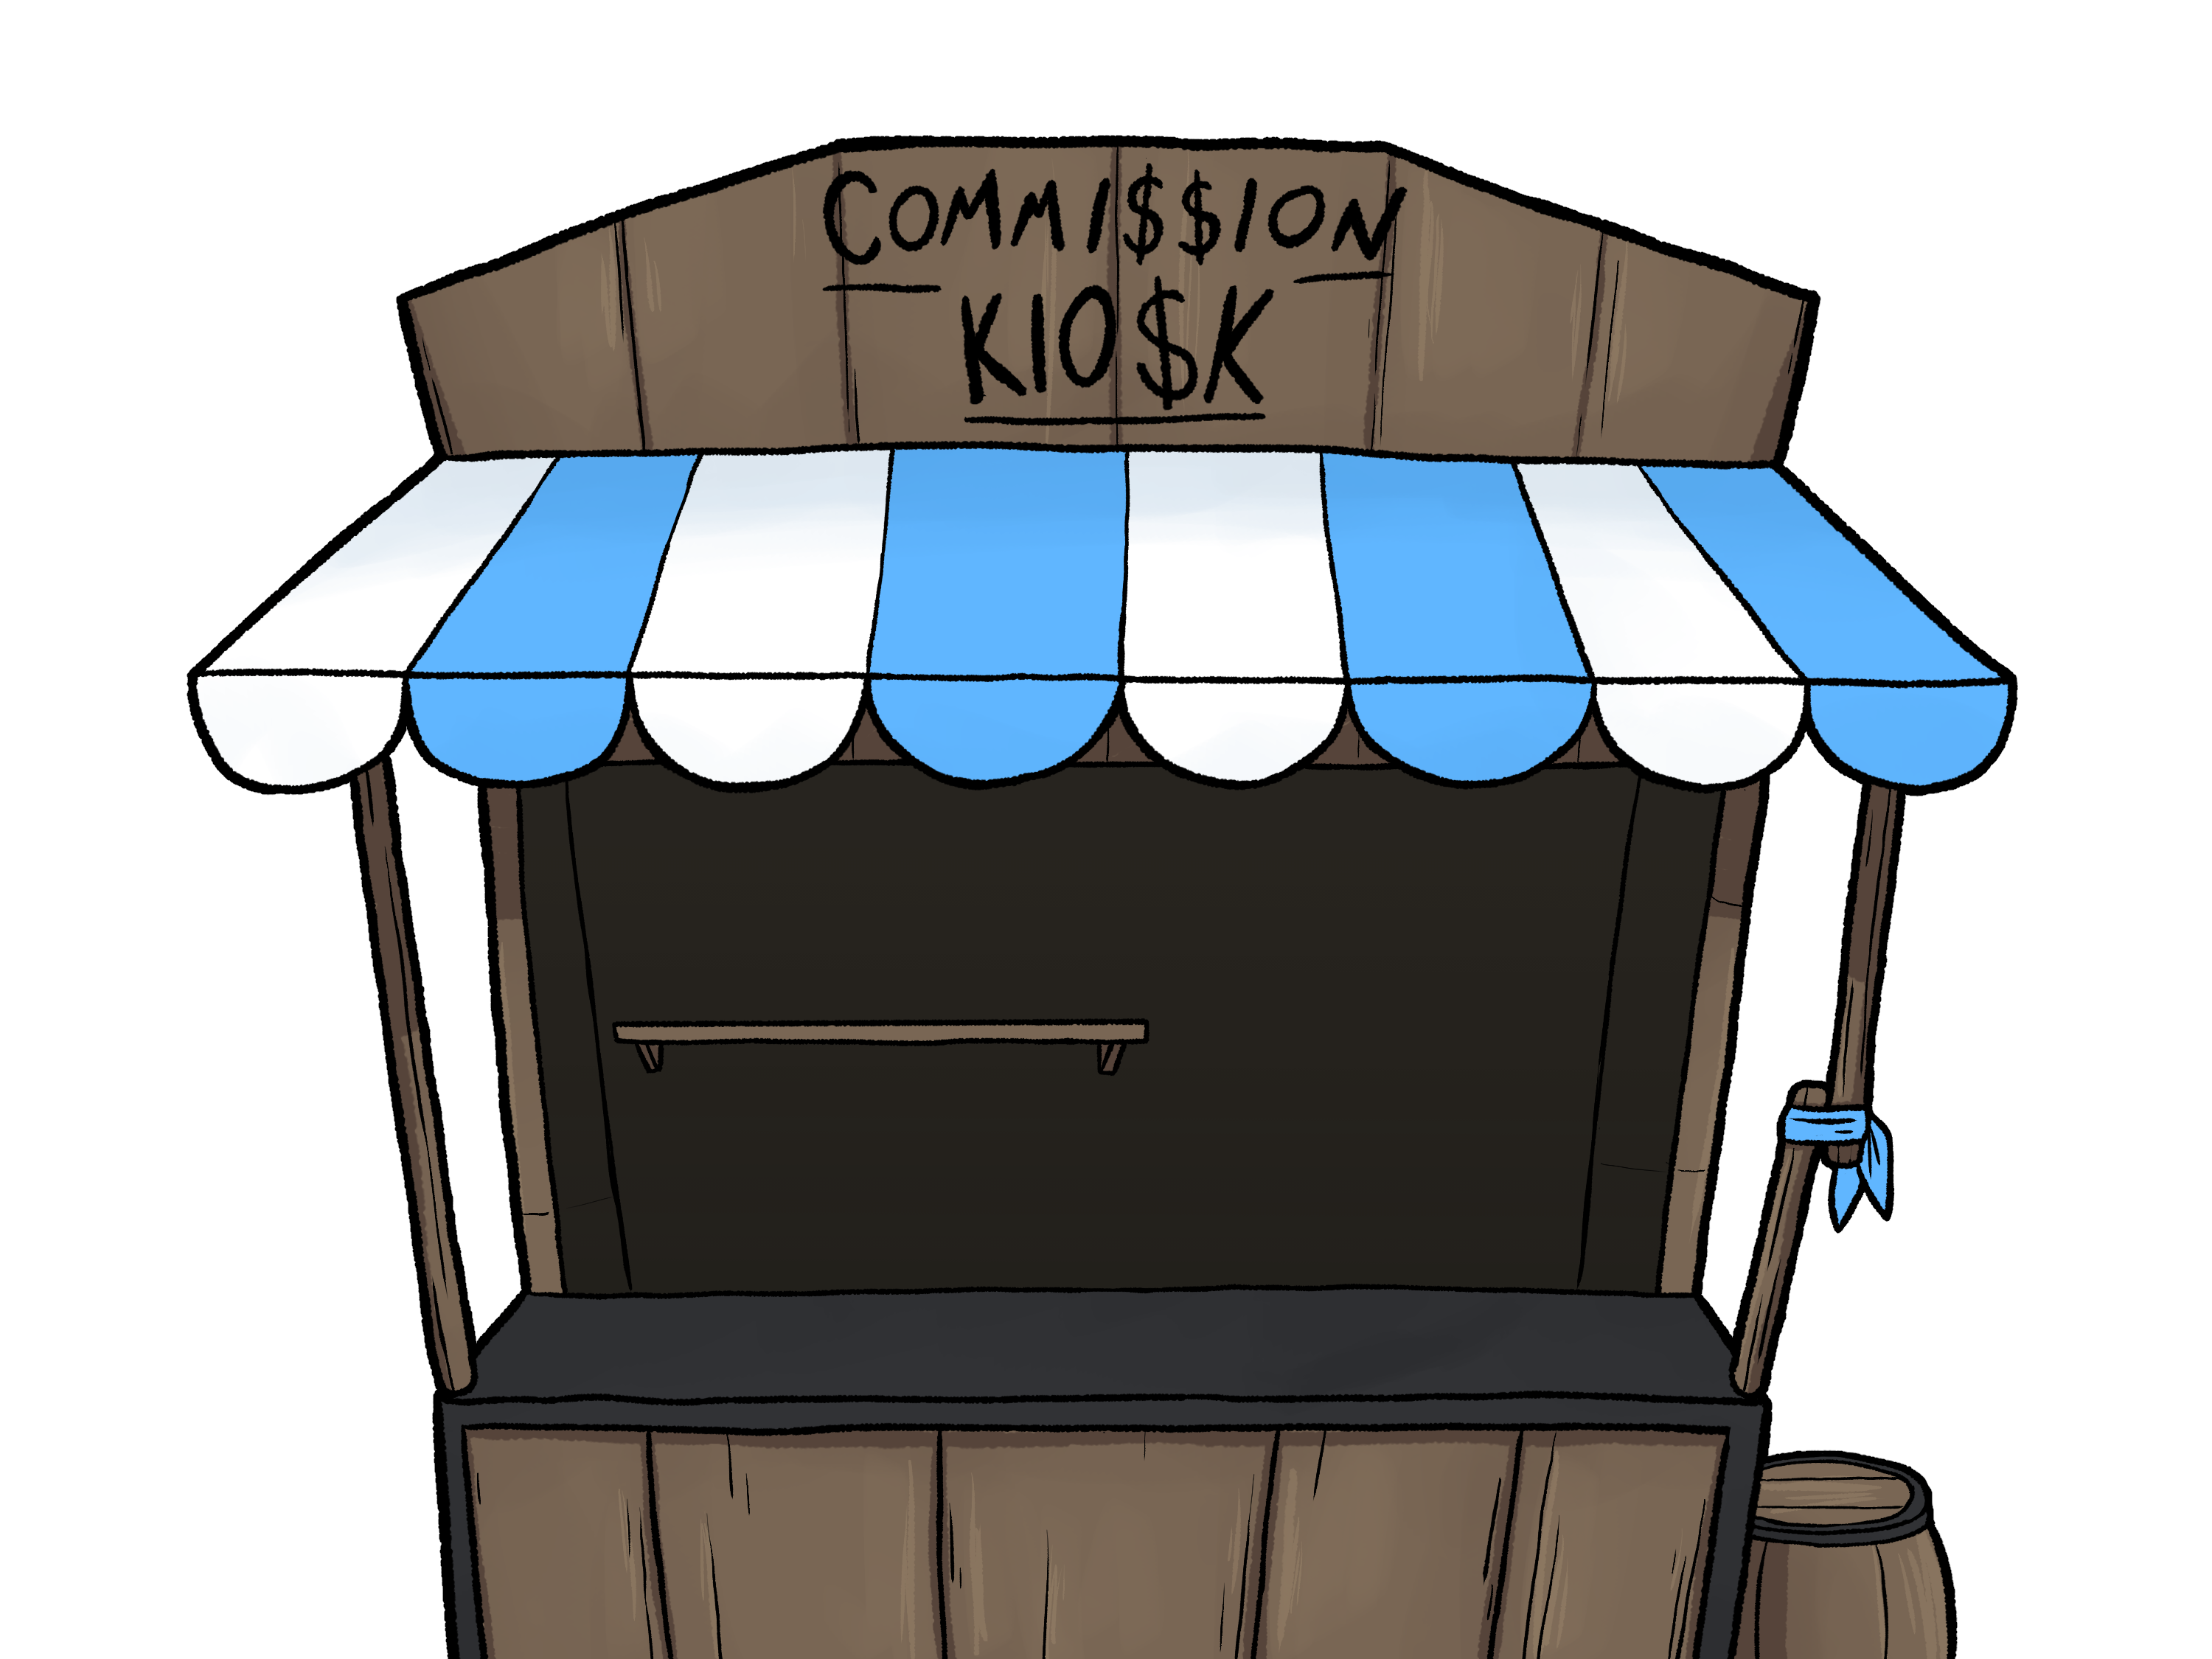
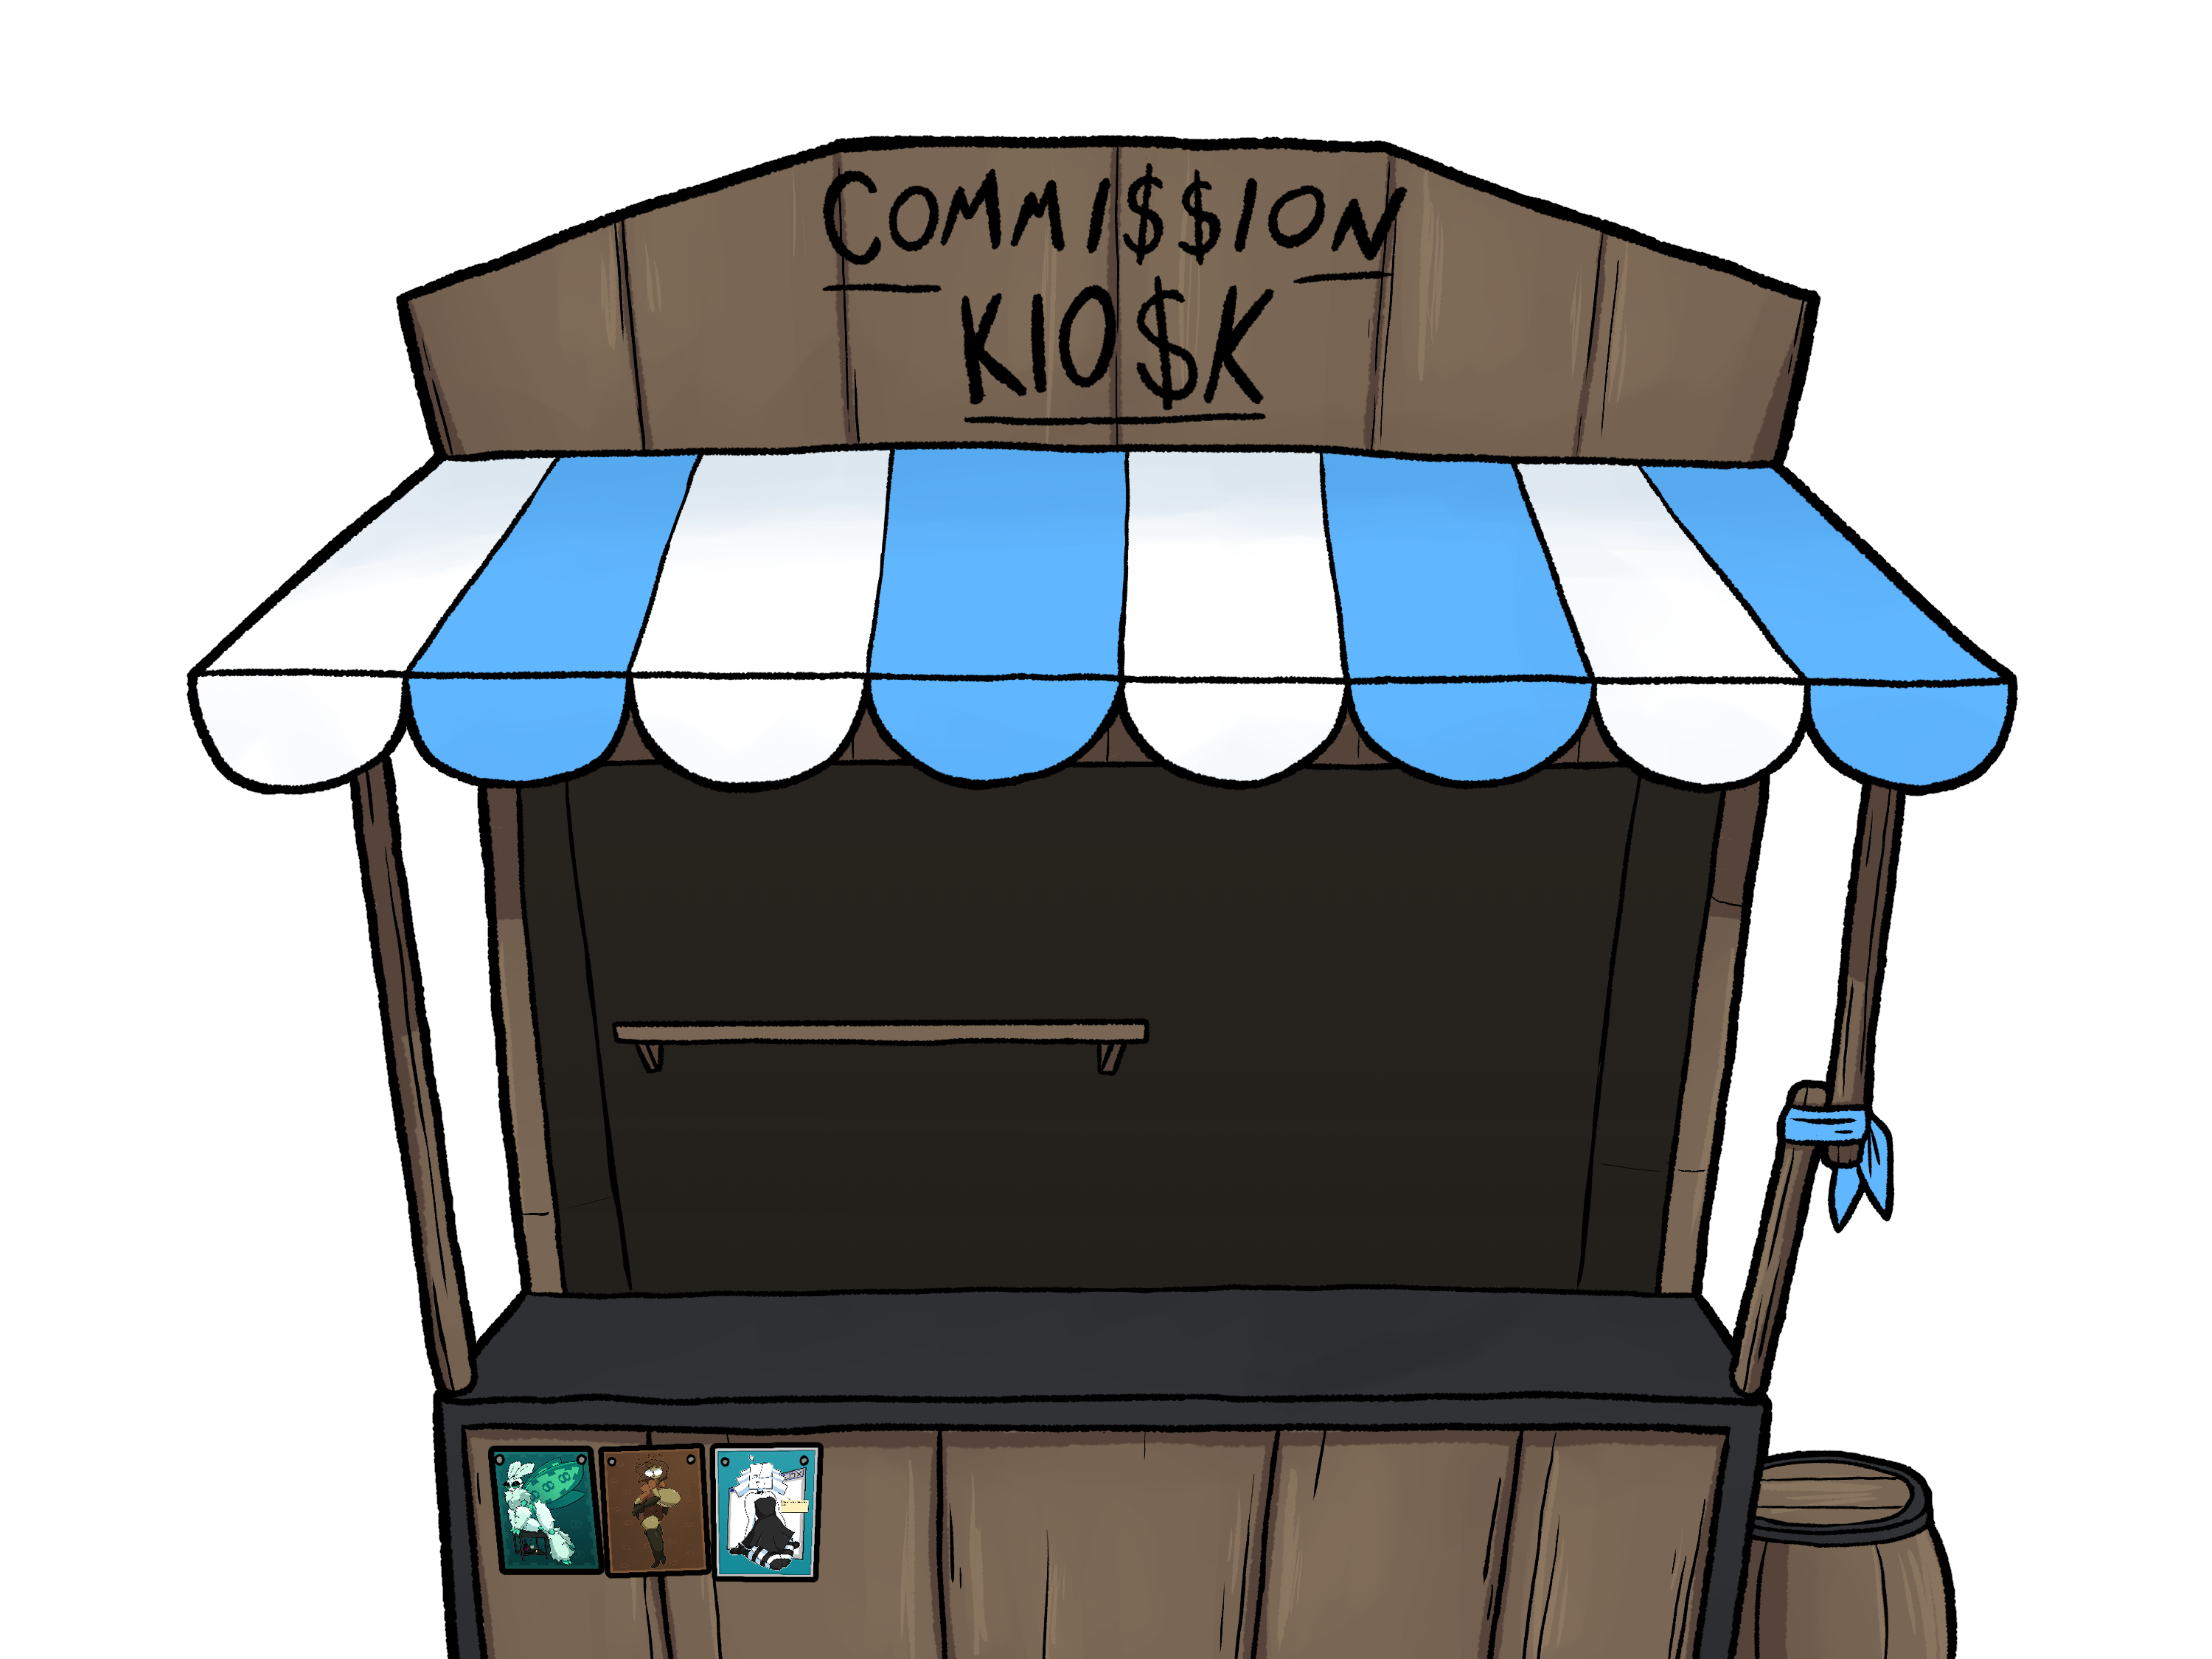
commission info update

Changed region(s): [[0.217, 0.8711, 0.372, 0.9644]]

diff --git a/manicfrenzy/style.css b/manicfrenzy/style.css
@@ -1140,7 +1140,7 @@ body {
 	left: 50%;
 	transform: translateX(-50%);
 	width: min(125vh, 100vw);
-	aspect-ratio: 4 / 3; /* or your kiosk art ratio */
+	aspect-ratio: 4 / 3;
 }
 
 .kiosk {
@@ -1194,6 +1194,11 @@ body {
 		drop-shadow(0 -2px 0 white);
 }
 
+.kiosk-object-closed {
+	position: absolute;
+	z-index: 3;
+}
+
 .kiosk-speech {
 	margin: 0;
 	padding: 0;
@@ -1202,11 +1207,90 @@ body {
 	color: black;
 }
 
-.radio-container {
-	position: relative;
-	width: 350px;
-	height: 263px;
+.kiosk-title {
+	width: 90%;
+	margin: 0 auto;
+	display: flex;
 }
+
+.reviewbox-f {
+	position: absolute;
+	width: 100%;
+	bottom: 3px;
+}
+
+.reviewbox-b {
+	position: absolute;
+	width: 100%;
+	bottom: 0px;
+}
+
+.reviewbox-container-f {
+    position: fixed;
+
+    bottom: -40%;
+    left: 50%;
+    transform: translateX(-50%);
+
+    width: 60%;
+
+    pointer-events: none;
+	z-index: 5;
+}
+
+.reviewbox-container-b {
+    position: fixed;
+
+    bottom: -40%;
+    left: 50%;
+    transform: translateX(-50%);
+
+    width: 60%;
+
+    pointer-events: none;
+	z-index: 1;
+}
+
+.review-scroll {
+    position: fixed;
+
+    top: 0;
+    left: 50%;
+    transform: translateX(-50%);
+
+    width: 30%;
+    height: 100vh;
+
+    overflow-y: auto;
+	overflow-x: hidden;
+
+    display: flex;
+    flex-direction: column;
+    align-items: center;
+	z-index: 3;
+	
+	padding-top: 500px;
+    padding-bottom: 300px;
+
+    box-sizing: border-box;
+}
+
+.review-slip {
+	position: relative;
+    width: 95%;
+    margin-bottom: 50px;
+}
+
+.slip-bg {
+    width: 100%;
+    display: block;
+}
+
+.slip-images {
+	position: absolute;
+	top: 20%;
+}
+
 
 .radio {
 	position: relative;
@@ -1214,6 +1298,12 @@ body {
 	height: auto;
 	z-index: 2;
 	pointer-events: none;
+}
+
+.radio-container {
+	position: relative;
+	width: 350px;
+	height: 263px;
 }
 
 .radio-content {

diff --git a/manicfrenzy/commissions/reviews/index.html b/manicfrenzy/commissions/reviews/index.html
@@ -1,0 +1,54 @@
+<!DOCTYPE html>
+<!-- Reviews -->
+<html>
+	<head>
+		<link rel="stylesheet" href="../../style.css">
+		<link href="https://fonts.googleapis.com/css2?family=Salsa&family=Shadows+Into+Light&family=Special+Elite&display=swap" rel="stylesheet">
+		<link rel="icon" type="image/png" href="../../images/favicon.png">
+		<title>MF | REVIEWS</title>
+	</head>
+	
+	<body class="background-lines-blue">
+	
+		<a href="../index.html" class="back-button">
+			<img src="../../images/back.png" alt="Go Back">
+		</a>
+		
+		<div class="reviewbox-container-f">
+			<img src="boxfront.png" class="reviewbox-f">
+		</div>
+		
+			<!-- Papers -->
+		<div class="review-scroll">
+		
+			<img src="scroll.png">
+		
+			<div class="review-slip">
+				<a href="work/biddybododode.html" target="_blank">
+					<img src="biddybododode.png" class="slip-bg">
+				</a>
+			</div>
+		
+			<div class="review-slip">
+				<a href="https://images2.imgbox.com/09/ae/gJsWidVI_o.png" target="_blank">
+					<img src="phiantavul.png" class="slip-bg">
+				</a>
+			</div>
+
+		</div>
+		
+		<div class="reviewbox-container-b">
+			<img src="boxback.png" class="reviewbox-b">
+		</div>
+
+
+
+	
+		
+		
+		
+
+		
+		
+	</body>
+</html>

diff --git a/manicfrenzy/commissions/closed.html b/manicfrenzy/commissions/closed.html
@@ -1,0 +1,30 @@
+<!DOCTYPE html>
+<!-- Commissions Closed -->
+<html>
+	<head>
+		<link rel="stylesheet" href="../style.css">
+		<link href="https://fonts.googleapis.com/css2?family=Salsa&family=Shadows+Into+Light&family=Special+Elite&display=swap" rel="stylesheet">
+		<link rel="icon" type="image/png" href="../images/favicon.png">
+		<title>MF | COMMISSIONS</title>
+	</head>
+	
+	<body class="background-lines-blue">
+	
+		<a href="../home/index.html" class="back-button">
+			<img src="../images/back.png" alt="Go Back">
+		</a>
+	
+		<div class="kiosk-container">
+			<img src="kiosk.png" class="kiosk">
+			
+			
+			<!-- Kiosk Objects -->
+			<a href="reviews/index.html">
+				<img src="reviews.png" class="kiosk-object" style="width: 9%; top: 75.5%; left: 33%;">
+			</a>
+			<img src="closed.png" class="kiosk-object-closed" style="width: 20%; top: 66%; left: 50%; hover: none;">
+
+		</div>
+
+	</body>
+</html>

diff --git a/manicfrenzy/commissions/reviews/work/biddybododode.html b/manicfrenzy/commissions/reviews/work/biddybododode.html
@@ -1,0 +1,23 @@
+<!DOCTYPE html>
+<!-- ArtViewer -->
+<html>
+	<head>
+		<link rel="stylesheet" href="../../../style.css">
+		<link href="https://fonts.googleapis.com/css2?family=Salsa&family=Shadows+Into+Light&family=Special+Elite&display=swap" rel="stylesheet">
+		<link rel="icon" type="image/png" href="../../../images/favicon.png">
+		<title>MF | COMMISSION</title>
+	</head>
+	
+	<body class="background-brushes">
+		
+		<br><br>
+		<div class="art-viewer-grid-container">
+			<div class="art-viewer-grid">
+				<img src="https://images2.imgbox.com/c4/08/ENuAi3RY_o.png">
+				<img src="https://images2.imgbox.com/2f/cd/wDn1mt1p_o.png">
+			</div>
+			<br>
+		</div>		
+	
+	</body>
+</html>

diff --git a/manicfrenzy/commissions/bust.html b/manicfrenzy/commissions/bust.html
@@ -7,12 +7,12 @@
 	
 	<body>
 		<div class="kiosk-speech">
-		<strong>HEAD / BUST</strong>
-		<br><br>
+		<img src="headbusttitle.png" class="kiosk-title">
+
 		Flat Colours: $10<br>
 		With shading: $15<br>
-		<br><br>
-		I'll add example images and stuff later, rn you'll just have to check the art grove for examples of work
+		<img src="bustexmp.png" class="kiosk-title">
+		</div>
 		
 	</body>
 </html>

diff --git a/manicfrenzy/commissions/contact.html b/manicfrenzy/commissions/contact.html
@@ -7,15 +7,14 @@
 	
 	<body>
 		<div class="kiosk-speech">
-		<strong>ADDITIONAL INFO</strong>
+		<img src="additionalinfotitle.png" class="kiosk-title">
 		<ul>
 			<li>Additional characters add 50% to the initial price.</li>
 			<li>Prices are listed as USD.</li>
 			<li>Payment after initial sketch (via Ko-Fi)</li>
 		</ul>
-		<strong>CONTACT INFO</strong>
-		<br><br>
-		Email: [email redacted]
+		<img src="contactinfotitle.png" class="kiosk-title">
+		Email: kdtlclt [at] gmail.com
 		<br>
 		Discord: kdtlclt
 		</div>

diff --git a/manicfrenzy/commissions/full.html b/manicfrenzy/commissions/full.html
@@ -7,12 +7,10 @@
 	
 	<body>
 		<div class="kiosk-speech">
-		<strong>WHOLE A PERSON</strong>
-		<br><br>
+		<img src="wholeapersontitle.png" class="kiosk-title">
 		Flat Colours: $30<br>
 		With shading: $35<br>
-		<br><br>
-		I'll add example images and stuff later, rn you'll just have to check the art grove for examples of work
+		<img src="fullexmp.png" class="kiosk-title">
 		</div>
 		
 	</body>

diff --git a/manicfrenzy/commissions/half.html b/manicfrenzy/commissions/half.html
@@ -7,12 +7,10 @@
 	
 	<body>
 		<div class="kiosk-speech">
-		<strong>HALF A PERSON</strong>
-		<br><br>
+		<img src="halfapersontitle.png" class="kiosk-title">
 		Flat Colours: $20<br>
 		With shading: $25<br>
-		<br><br>
-		I'll add example images and stuff later, rn you'll just have to check the art grove for examples of work
+		<img src="halfexmp.png" class="kiosk-title">
 		</div>
 		
 	</body>

diff --git a/manicfrenzy/commissions/index.html b/manicfrenzy/commissions/index.html
@@ -35,17 +35,13 @@
 			<a href="tos.html" target="bubble">
 				<img src="dosdonts.png" class="kiosk-object" style="width: 9%; top: 71.5%; left: 27%;">
 			</a>
-			<a href="reviews.html" target="bubble">
+			<a href="reviews/index.html">
 				<img src="reviews.png" class="kiosk-object" style="width: 9%; top: 75.5%; left: 37%;">
 			</a>
 			<a href="contact.html" target="bubble">
 				<img src="contact.png" class="kiosk-object" style="width: 7%; top: 76%; left: 47%;">
 			</a>
 		</div>
-		
-		
 
-		
-		
 	</body>
 </html>

diff --git a/manicfrenzy/home/index.html b/manicfrenzy/home/index.html
@@ -60,8 +60,8 @@
 						<img src = "../images/kupla.png" alt="thinking bubble" class="bubble">
 
 						<!-- Thinking Bubble -->
-						<div class="bubble-text-main">google dot com how 2 stop comparing one's self to others</div>
-						<div class="bubble-text-sub">(19th May 2026)</div>
+						<div class="bubble-text-main">I ordered some Gunpla for the first time in my life. Let's see how it goes once they arrive..</div>
+						<div class="bubble-text-sub">(14th Jun. 2026)</div>
 
 					</div>
 					<img src = "../images/kdt_float.png" alt="KDT" class="kdt_float">
@@ -168,6 +168,8 @@
 					<div class="window-top-right">
 						<!-- Changelog -->
 						<div class="changelog-txt">
+						
+							<p><strong>[14th Jun. 2026]</strong> Commission page has some new graphics and a "Reviews" section now.</p>
 						
 							<p><strong>[2nd Jun. 2026]</strong> New thought in the personal brain
 							<a href="../brain/personal-brain/painting-rocks/index.html">(Painting Rocks)</p></a>

diff --git a/manicfrenzy/commissions/initial.html b/manicfrenzy/commissions/initial.html
@@ -13,9 +13,10 @@
 		<br><br>
 		It's pretty much just an info dump for all commission related things.
 		<br><br>
-		Click on the objects and I'll tell you more. Or go check out the Art Grove if you want to see more examples of my work. (Just ignore the non-cartoony ones. I'm not doing paint commissions)
+		Click on the objects and I'll tell you more. The "Reviews" box has examples of previous work. If you want to see even more, then go check out the Art Grove!
+		(Just ignore the non-cartoony ones. I'm not doing paint commissions)
 		<br><br>
-		I'll make the info (in the speech bubbles) look better in the future, but I'm just going with this for now because I want to have this page up asap.
+		<strong>I'll close commissions during July, </strong> so now's the last chance... (until I open them later)
 		</div>
 		
 	</body>

diff --git a/manicfrenzy/commissions/tos.html b/manicfrenzy/commissions/tos.html
@@ -7,7 +7,7 @@
 	
 	<body>
 		<div class="kiosk-speech">
-		<strong>WILL DO</strong>
+		<img src="willdotitle.png" class="kiosk-title">
 		<ul>
 			<li>Original Characters (please provide a reference)</li>
 			<li>Fanart</li>
@@ -15,7 +15,7 @@
 			<li>Anthros</li>
 			<li>Gore (within reason)</li>
 		</ul>
-		<strong>WILL NOT DO</strong>
+		<img src="willnotdotitle.png" class="kiosk-title">
 		<ul>
 			<li>Stuff for commercial use</li>
 			<li>Just straight up porn</li>